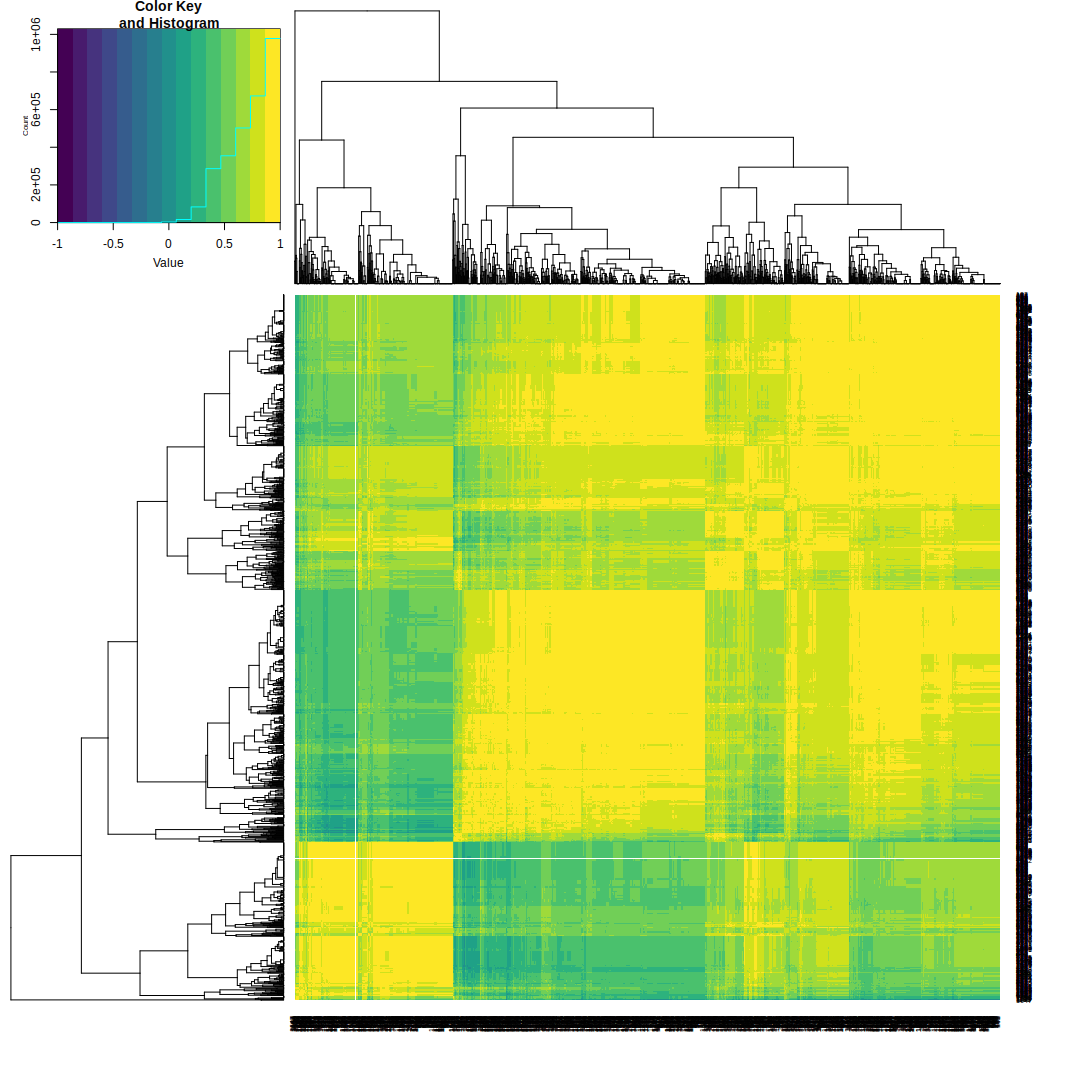
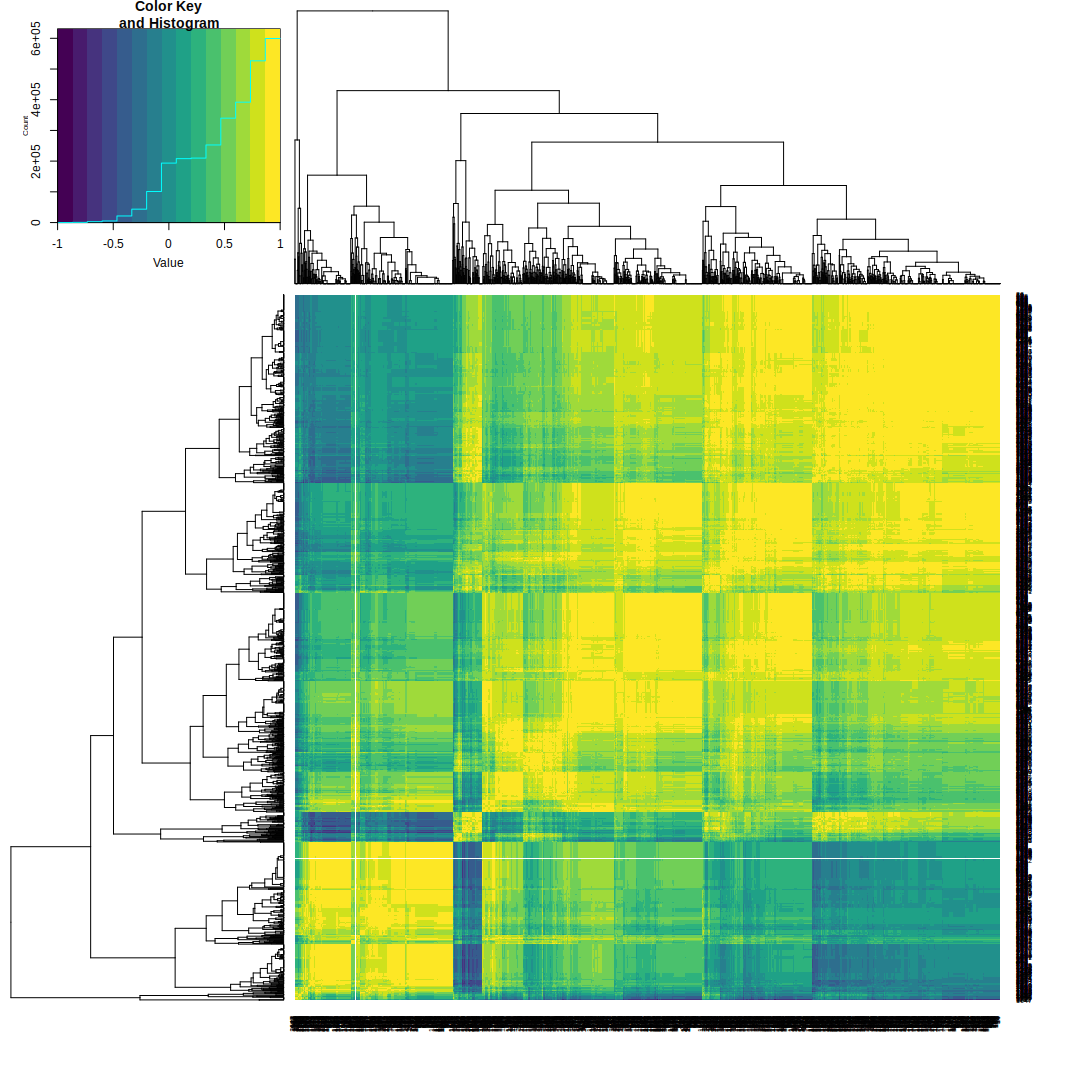
Dropped unhelpful identifiers from cyf table

diff --git a/README.md b/README.md
@@ -378,7 +378,7 @@ bhs_collapsed <- bhs %>%
 
 # drop INVLV and birthdate columns
 cyf_collapsed <- cyf %>% 
-    select(-BRTH_DT, -starts_with('INVLV'))
+    select(-CAS_ID, -CL_ID, -BRTH_DT, -starts_with('INVLV'))
 
 # Just keep one row for each individual
 cyf_collapsed <- cyf_collapsed[!duplicated(cyf_collapsed$mci),]
@@ -450,9 +450,9 @@ sessionInfo()
     ## [1] stats     graphics  grDevices utils     datasets  methods   base     
     ## 
     ## other attached packages:
-    ##  [1] venneuler_1.1-0 rJava_0.9-8     knitr_1.15.1    gplots_3.0.1   
-    ##  [5] ggplot2_2.2.0   dplyr_0.5.0     readr_1.0.0     rmarkdown_1.2  
-    ##  [9] viridis_0.3.4   nvimcom_0.9-25  colorout_1.1-0 
+    ##  [1] viridis_0.3.4   venneuler_1.1-0 rJava_0.9-8     knitr_1.15.1   
+    ##  [5] gplots_3.0.1    ggplot2_2.2.0   dplyr_0.5.0     readr_1.0.0    
+    ##  [9] rmarkdown_1.2   nvimcom_0.9-25  colorout_1.1-0 
     ## 
     ## loaded via a namespace (and not attached):
     ##  [1] Rcpp_0.12.8         magrittr_1.5        munsell_0.4.3      
@@ -461,7 +461,7 @@ sessionInfo()
     ## [10] tools_3.3.2         grid_3.3.2          gtable_0.2.0       
     ## [13] KernSmooth_2.23-15  DBI_0.5-1           gtools_3.5.0       
     ## [16] htmltools_0.3.5     yaml_2.1.14         lazyeval_0.2.0.9000
-    ## [19] assertthat_0.1      digest_0.6.10       rprojroot_1.1      
+    ## [19] assertthat_0.1      rprojroot_1.1       digest_0.6.10      
     ## [22] tibble_1.2          gridExtra_2.2.1     bitops_1.0-6       
     ## [25] evaluate_0.10       gdata_2.17.0        stringi_1.1.2      
     ## [28] scales_0.4.1        backports_1.0.4
